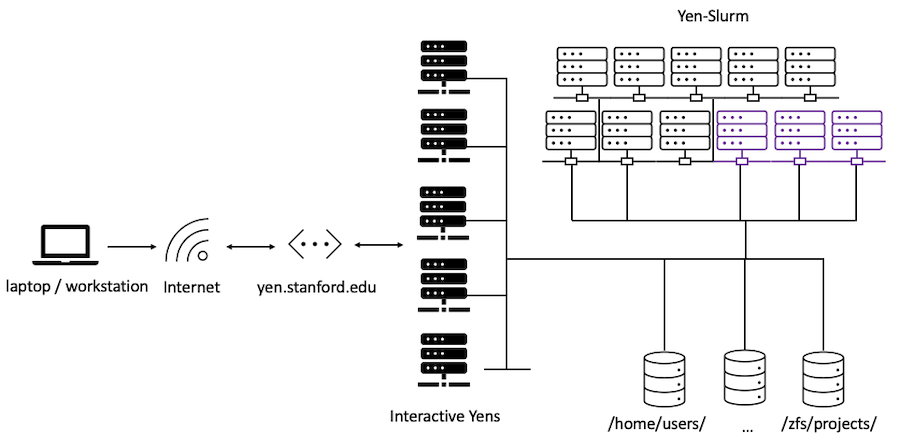
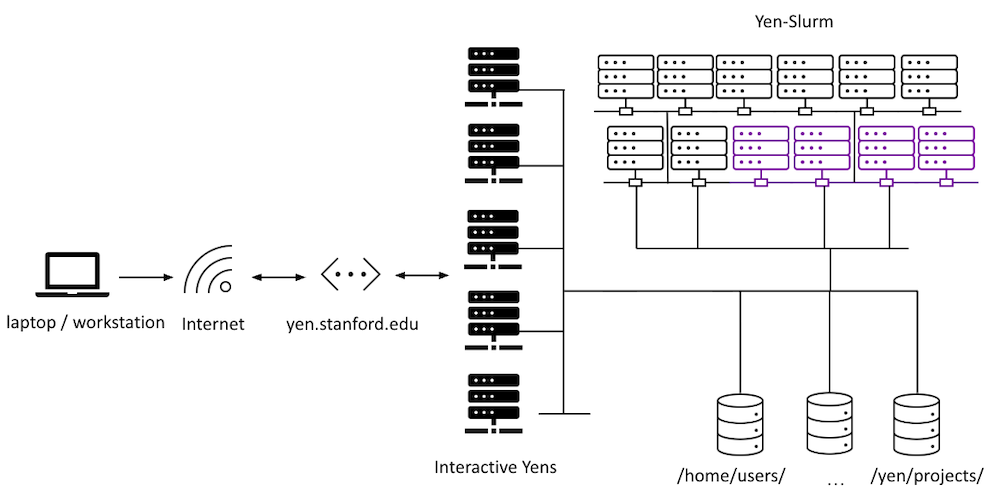
new gpu node

diff --git a/docs/_user_guide/slurm.md b/docs/_user_guide/slurm.md
@@ -26,7 +26,7 @@ The downside of this system is that resources can be eaten up rather quickly by 
     <div class="col col-md-2"></div>
   </div>
 
-The `yen-slurm` cluster has 10 nodes (including 3 GPU nodes) with a total of 2,112 available CPU cores, 10.25 TB of memory, and 12 NVIDIA GPU's.
+The `yen-slurm` cluster has 12 nodes (including 4 GPU nodes) with a total of 2,880 available CPU cores, 12.5 TB of memory, and 14 NVIDIA GPU's.
 
 ## What Is A Scheduler?
 
@@ -313,11 +313,10 @@ Run `sinfo -o "%P %D %N"` in a terminal to see available partitions:
 
 ```{.yaml .no-copy title="Terminal Output"}
 USER@yen4:~$ sinfo -o "%P %D %N"
-PARTITION NODES NODELIST
-normal* 7 yen[10-11,15-19]
-dev 7 yen[10-11,15-19]
-long 7 yen[10-11,15-19]
-gpu 3 yen-gpu[1-3]
+normal* 8 yen[10-16,20]
+dev 8 yen[10-16,20]
+long 8 yen[10-16,20]
+gpu 4 yen-gpu[1-4]
 ```
 
 The first column PARTITION lists all available partitions. Partitions are the logical subdivision
@@ -330,7 +329,7 @@ The four partitions have the following limits:
 |  normal        |    512             |  3072000               | 3000                  | 2 days  (2 hours)     |
 |  long          |    50              |  3072000               | 3000                  | 7 days (2 hours)      |
 |  dev           |    2               |  48000                 | 46                    | 2 hours (1 hour)      |
-|  gpu           |    64              |  256000                | 250                    | 1 day (2 hours)       |
+|  gpu           |    256              |  768000                | 755                    | 1 day (2 hours)       |
 
 The default unit for memory allocation in Slurm is Megabytes (MB).
 You can request memory using either of the following flags:
@@ -387,23 +386,24 @@ You can pass format options to the `sinfo` command as follows:
 ```{.yaml .no-copy title="Terminal Output"}
 USER@yen4:~$ sinfo --format="%m | %C"
 MEMORY | CPUS(A/I/O/T)
-257366+ | 1040/1072/0/2112
+MEMORY | CPUS(A/I/O/T)
+257360+ | 2012/868/0/2880
 ```
 
 where MEMORY outputs the minimum size of memory of the `yen-slurm` cluster node in megabytes (256 GB) and CPUS(A/I/O/T) prints the number of CPU's that are allocated / idle / other / total.
-For example, if you see `1040/1072/0/2112` that means 1,040 CPU's are allocated, 1,072 are idle (free) out of 2,112 CPU's total.
+For example, if you see `2012/868/0/2880` that means 1,012 CPU's are allocated, 868 are idle (free) out of 2,880 CPU's total.
 
 You can also run `checkyens` and look at the last line for summary of all pending and running jobs on `yen-slurm`.
 
 ```{.yaml .no-copy title="Terminal Output"}
 USER@yen4:~$ checkyens
 Enter checkyens to get the current server resource loads. Updated every minute.
-yen1 :  2 Users | CPU [#######             36%] | Memory [####                22%] | updated 2024-10-22-00:16:01 
-yen2 :  3 Users | CPU [                     1%] | Memory [########            42%] | updated 2024-10-22-00:16:00 
-yen3 :  6 Users | CPU [                     1%] | Memory [###                 15%] | updated 2024-10-22-00:16:00 
-yen4 :  2 Users | CPU [                     0%] | Memory [###                 16%] | updated 2024-10-22-00:16:00 
-yen5 :  0 Users | CPU [####                21%] | Memory [####                21%] | updated 2024-10-22-00:16:04 
-yen-slurm : 386 jobs, 7 pending | 834 CPUs allocated (53%) | 5142G Memory Allocated (50%) | updated 2024-10-22-00:16:02
+yen1 :  5 Users | CPU [                     0%] | Memory [##                  11%] | updated 2026-04-01-09:44:00
+yen2 :  3 Users | CPU [                     0%] | Memory [##                  13%] | updated 2026-04-01-09:44:00
+yen3 :  2 Users | CPU [                     0%] | Memory [######              33%] | updated 2026-04-01-09:44:00
+yen4 :  3 Users | CPU [                     0%] | Memory [###                 17%] | updated 2026-04-01-09:44:00
+yen5 :  6 Users | CPU [####                23%] | Memory [#                    5%] | updated 2026-04-01-09:44:01
+yen-slurm : 231 jobs, 394 pending | 2016 CPUs allocated (70%) | 8978G Memory Allocated (71%) | updated 2026-04-01-09:44:02
 ```
 
 ### When Will My Job Start?
@@ -437,15 +437,16 @@ as a GPU. These features can be viewed as follows:
 ```{.yaml .no-copy title="Terminal Output"}
 USER@yen4:~$ sinfo -o "%20N  %5c  %5m  %64f  %10G"
 NODELIST              CPUS   MEMOR  AVAIL_FEATURES                                                    GRES
-yen[10-11,15-19]      128+   10315  (null)                                                            (null)
-yen-gpu1              64     25736  GPU_BRAND:NVIDIA,GPU_UARCH:AMPERE,GPU_MODEL:A30,GPU_MEMORY:24GiB  gpu:4
-yen-gpu[2-3]          64     25736  GPU_BRAND:NVIDIA,GPU_UARCH:AMPERE,GPU_MODEL:A40,GPU_MEMORY:48GiB  gpu:4
+yen[10-16,20]         128+   10315  (null)                                                            (null)
+yen-gpu1              64     25736  GPU_BRAND:NVIDIA,GPU_UARCH:AMPERE,GPU_MODEL:A30,GPU_MEMORY:24GiB  gpu:4(S:0-
+yen-gpu[2-3]          64     25736  GPU_BRAND:NVIDIA,GPU_UARCH:AMPERE,GPU_MODEL:A40,GPU_MEMORY:48GiB  gpu:4(S:0-
+yen-gpu4              256    77322  GPU_BRAND:NVIDIA,GPU_UARCH:HOPPER,GPU_MODEL:H200,GPU_MEMORY:141G  gpu:2(S:0-
 ```
 
-For example, to ensure that your job will run on a node that has an NVIDIA Ampere A40 GPU, you can include the `-C`/`--constraint` option to the `sbatch` command or in an `sbatch` script. Here is a trivial example command that demonstrates this: 
+For example, to ensure that your job will run on a node that has an NVIDIA H200 GPU, you can include the `-C`/`--constraint` option to the `sbatch` command or in an `sbatch` script. Here is a trivial example command that demonstrates this: 
 
 ```bash title="sbatch Command"
-sbatch -C "GPU_MODEL:A30" -G 1 -p gpu --wrap "nvidia-smi"
+sbatch -C "GPU_MODEL:H200" -G 1 -p gpu --wrap "nvidia-smi"
 ```
 
 At present, only GPU-specific features exist, but additional node features may be added over time.

diff --git a/docs/_user_guide/using_gpu.md b/docs/_user_guide/using_gpu.md
@@ -5,8 +5,10 @@
 
 - `yen-gpu1` has 64 threads, 256 G of RAM and 4 A30 NVIDIA GPU's
 - `yen-gpu2` and `yen-gpu3` each have 64 threads, 256 G of RAM and 4 A40 NVIDIA GPU's
+- `yen-gpu4` has 256 threads, 750G of RAM and 2 H200 NVIDIA GPU's
 
-The A30 NVIDIA GPU's have 24 G of GPU RAM while the A40 NVIDIA GPU's have 48 G of GPU RAM.
+The A30 NVIDIA GPU's have 24 G of GPU RAM, the A40 NVIDIA GPU's have 48 G of GPU RAM while H200 NVIDIA GPU's have 141 GB of GPU RAM.
+You can fit much larger LLM's onto H200's. 
 
 ### GPU Partition
 
@@ -14,8 +16,7 @@ To work with these GPU nodes on Yen Slurm, you can [submit jobs](/_user_guide/sl
 
 ```{.yaml .no-copy title="Terminal Output"}
 PARTITION AVAIL  TIMELIMIT  NODES  STATE NODELIST
-gpu          up 1-00:00:00      1    mix yen-gpu3
-gpu          up 1-00:00:00      2   idle yen-gpu[1-2]
+gpu          up 1-00:00:00      2   idle yen-gpu[1-4]
 ```
 
 !!! warning "Job Time and GPU Limit"

diff --git a/docs/_getting_started/yen-servers.md b/docs/_getting_started/yen-servers.md
@@ -65,3 +65,4 @@ The Yen Slurm nodes can only be accessed using the [Slurm scheduler.](/_user_gui
 !!! Important
      **`yen-gpu1`** has **4** NVIDIA Ampere **A30 GPUs**, each with **24 GB of GPU RAM**<br>
      **`yen-gpu[2-3]`** each has **4** NVIDIA Ampere **A40 GPUs**, each with **48 GB of GPU RAM**
+     **`yen-gpu4`** has **2** NVIDIA Hopper **H200 GPUs**, each with **141 GB of GPU RAM**
